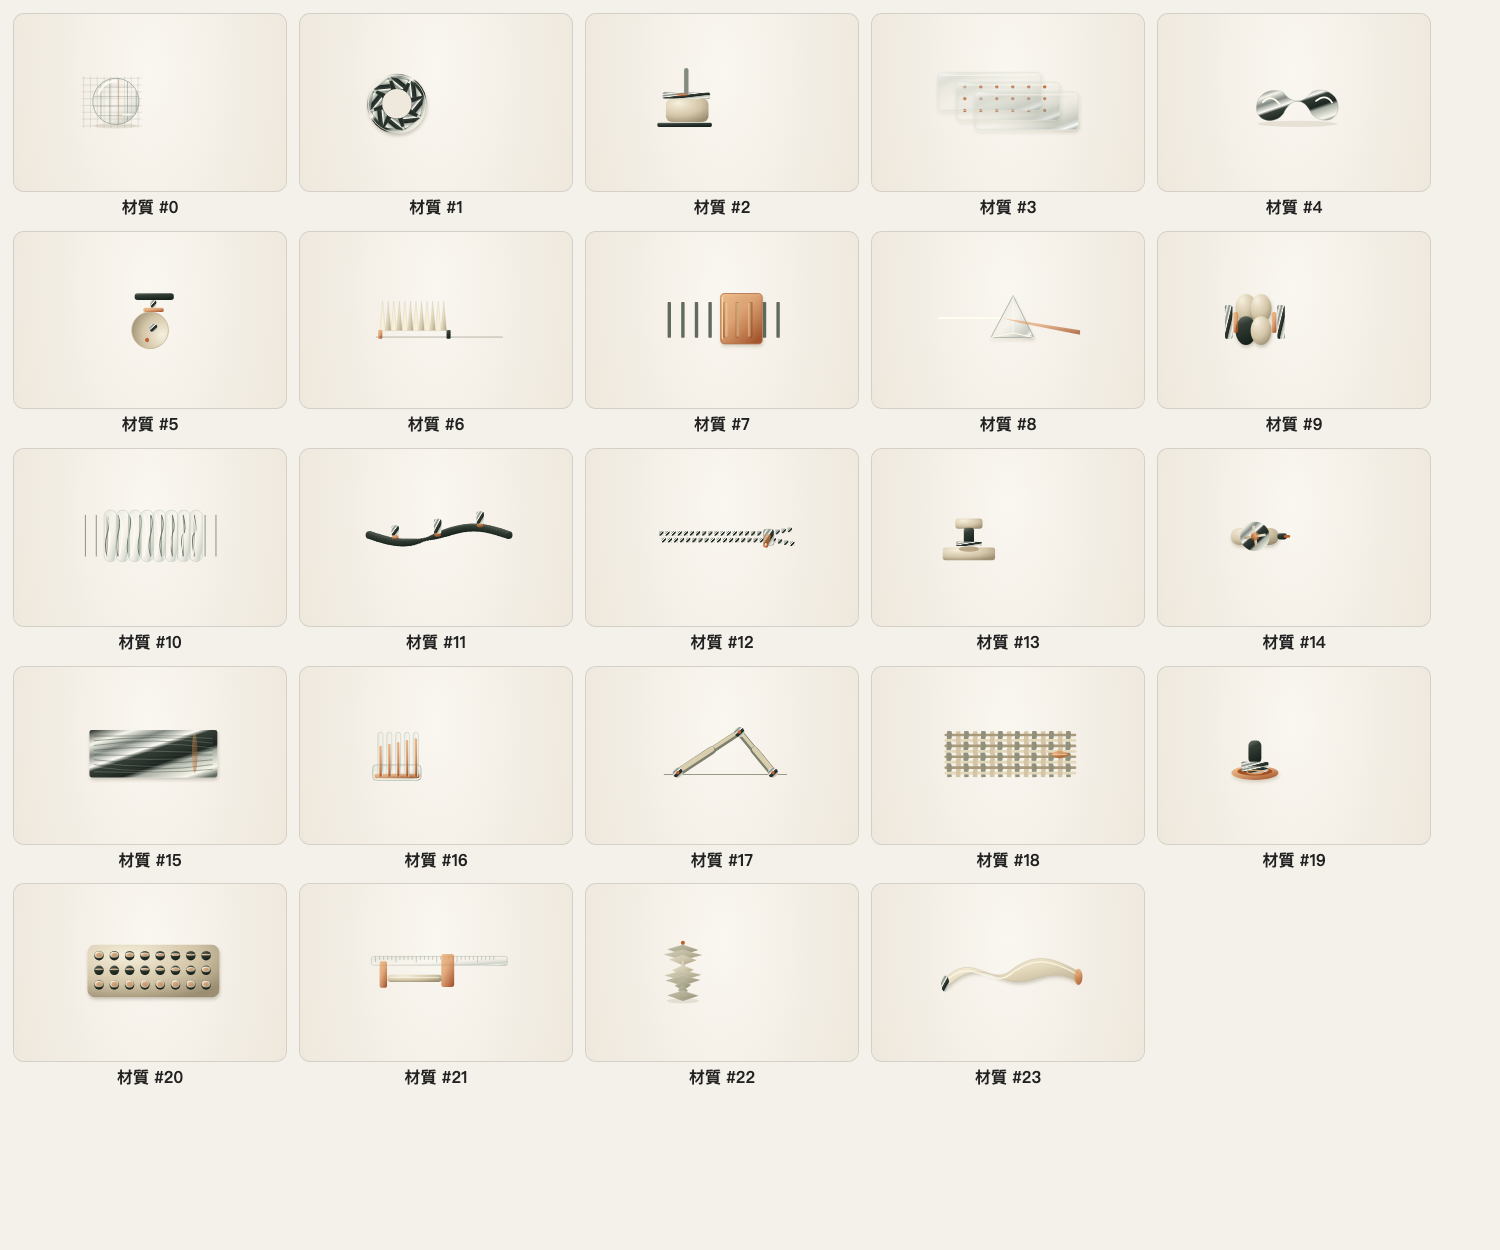
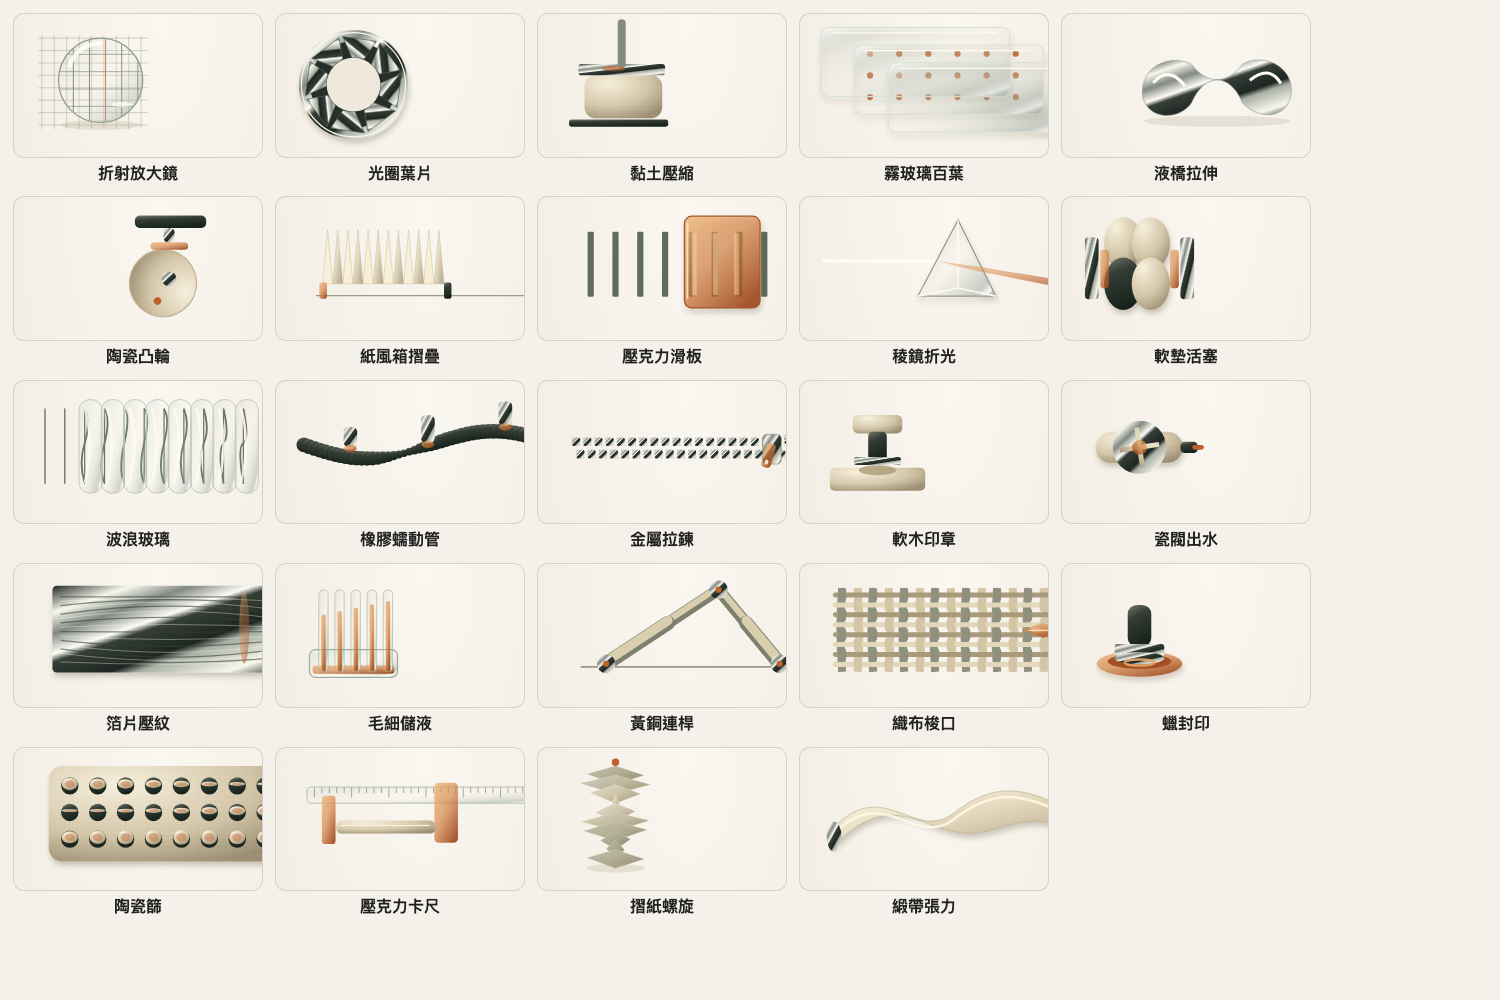
說明頁只放動態元件圖，其餘改文字；元件全部命名

diff --git a/sheet.html b/sheet.html
@@ -12,7 +12,7 @@ html,body{margin:0;background:#f4f1ea;font-family:-apple-system,"PingFang TC",sa
 .lab{font:600 16px/1.3 -apple-system,"PingFang TC";color:#222;margin-top:6px;text-align:center;max-width:300px}
 </style>
 <div id="g"></div>
-<script src="lib/widgets.js"></script><script src="lib/widgets2.js"></script><script src="lib/widgets3.js"></script><script src="lib/widgets4.js"></script><script src="lib/widgets-all.js"></script><script src="lib/motion.js"></script>
+<script src="lib/widgets.js"></script><script src="lib/widgets2.js"></script><script src="lib/widgets3.js"></script><script src="lib/widgets4.js"></script><script src="lib/widgets-all.js"></script><script src="lib/names.js"></script><script src="lib/motion.js"></script>
 <script>
 const q=new URLSearchParams(location.search),type=q.get('type'),from=+(q.get('from')||0),to=+(q.get('to')||999);
 const names={enter:ENTER.map(x=>x[0]),break:BREAK.map(x=>x[0]),arrange:ARR.map(x=>x[0]),camera:CAMS.map(x=>x[0]),transition:Object.keys(TRX)};
@@ -32,7 +32,7 @@ const add=(ty,i,t,label,sc,crop)=>{const it=document.createElement('div');it.cla
  const inn=document.createElement('div');inn.className='in';inn.style.transform=`scale(${sc}) translate(${crop?-crop.x:0}px,${crop?-crop.y:0}px)`;inn.innerHTML=render(ty,i,t);c.appendChild(inn);it.appendChild(c);
  const l=document.createElement('div');l.className='lab';l.textContent=label;it.appendChild(l);g.appendChild(it)};
 const TS=(q.get('ts')||'0.3').split(',').map(Number);
-if(type==='widget'){const n=WALL.length;for(let i=from;i<Math.min(to,n);i++)add('widget',i,1.2,'#'+i,.34,{x:140,y:640,w:800,h:520})}
-else if(type==='mat'){for(let i=from;i<Math.min(to,WALL4.length);i++)add('mat',i,1.2,'材質 #'+i,.34,{x:140,y:640,w:800,h:520})}
+if(type==='widget'){const n=WALL.length;for(let i=from;i<Math.min(to,n);i++)add('widget',i,1.2,WALL_NAMES[i],.34,{x:140,y:640,w:800,h:520})}
+else if(type==='mat'){for(let i=from;i<Math.min(to,WALL4.length);i++)add('mat',i,1.2,WALL4_NAMES[i],.62,{x:300,y:790,w:400,h:230})}
 else{const nm=names[type];for(let i=0;i<nm.length;i++){TS.forEach((t,j)=>add(type,i,t,j===0?`${i} ${nm[i]}`:'',.2,(type==='enter'||type==='break')?{x:0,y:520,w:1080,h:760}:null))}}
 </script>

diff --git a/lib/names.js b/lib/names.js
@@ -1,0 +1,3 @@
+// 動態元件（WALL，72 個）與材質元件（WALL4，24 個）的中文名稱，順序與編號一致
+window.WALL_NAMES=["閃電計數", "即時比分", "心率", "跳躍軌跡", "影片倒數", "訂單進度", "通話中", "電量百分比", "音樂播放", "跑步配速", "水滴數值", "爆發預測長條", "烤吐司計時", "呼吸引導", "錄影時間碼", "聊天輸入", "渲染進度環", "混音等化器", "互動曲線", "設定開關", "大數字統計", "時長膠囊", "處理中圓環", "已渲染幀數", "天氣", "股票 K 線", "地圖導航", "心電圖", "雷達掃描", "翻頁鐘", "行事曆", "通知堆疊", "支付卡", "相機取景框", "錄音波形", "日出曲線", "電量", "溫度計", "評分星", "下載進度", "Wi-Fi 訊號格", "指南針", "圓餅圖", "計步三環", "匯率", "外送進度", "碼表", "音量旋鈕", "音樂播放器", "聊天輸入中", "語音助理聲波球", "包裹地圖追蹤", "心率區間條", "睡眠階段圖", "雙線走勢比較", "加密貨幣跳動", "降雨雷達雨帶", "航班動態", "電梯樓層", "停車計時", "比賽計分板", "即時投票長條", "直播觀看數與愛心", "上傳進度圈", "雲端同步", "二步驗證碼", "鍵盤打字", "色彩滑桿", "顏色選擇器", "頻譜瀑布圖", "世界時鐘", "番茄鐘"];
+window.WALL4_NAMES=["折射放大鏡", "光圈葉片", "黏土壓縮", "霧玻璃百葉", "液橋拉伸", "陶瓷凸輪", "紙風箱摺疊", "壓克力滑板", "稜鏡折光", "軟墊活塞", "波浪玻璃", "橡膠蠕動管", "金屬拉鍊", "軟木印章", "瓷閥出水", "箔片壓紋", "毛細儲液", "黃銅連桿", "織布梭口", "蠟封印", "陶瓷篩", "壓克力卡尺", "摺紙螺旋", "緞帶張力"];

diff --git a/demo.html b/demo.html
@@ -7,7 +7,7 @@ html,body{margin:0;background:#0b0b0c}
 #st .wg>div:first-child{position:relative}
 </style>
 <div id="st"></div>
-<script src="lib/widgets.js"></script><script src="lib/widgets2.js"></script><script src="lib/widgets3.js"></script><script src="lib/widgets4.js"></script><script src="lib/widgets-all.js"></script>
+<script src="lib/widgets.js"></script><script src="lib/widgets2.js"></script><script src="lib/widgets3.js"></script><script src="lib/widgets4.js"></script><script src="lib/widgets-all.js"></script><script src="lib/names.js"></script>
 <script src="lib/motion.js"></script>
 <script>
 // URL 參數：?type=enter|break|arrange|camera|transition|widget&i=第幾個&t=秒&k=用哪個元件

diff --git a/catalog.md b/catalog.md
@@ -44,33 +44,102 @@
 - `7` iris
 - `8` rgb
 
-## 動態元件（type=widget，WALL 共 72 個，編號 0–71）
-- 0–23：基礎元件 24 個，由 pill, score, arc, steps, call, music, run, rain, timer, breathe, tc, chat, ring, eq, line, toggles, stat 等樣式組成（細節看 `lib/widgets.js` 結尾的 WALL 清單）
-- 24–47：天氣, 股票 K 線, 地圖導航, 心電圖, 雷達掃描, 翻頁鐘, 行事曆, 通知堆疊, 支付卡, 相機取景框, 錄音波形, 日出曲線, 電量, 溫度計, 評分星, 下載進度, Wi-Fi／訊號格, 指南針, 圓餅圖, 計步環三圈, 匯率, 外送進度, 碼表, 音量旋鈕
-- 48–71：音樂播放器, 聊天輸入中, 語音助理聲波球, 追蹤包裹地圖點, 健身心率區間條, 睡眠階段圖, 股票走勢雙線比較, 加密貨幣跳動, 天氣雷達雨帶, 航班動態, 電梯樓層, 停車計時, 比賽計分板倒數, 投票即時長條, 直播觀看數＋愛心飄, 上傳進度圈, 雲端同步轉圈, 二步驗證碼倒數, 鍵盤打字, 滑桿調整, 顏色選擇器色環, 頻譜瀑布圖, 世界時鐘三城, 番茄鐘
+## 動態元件（type=widget，共 72 個）
+- `0` 閃電計數
+- `1` 即時比分
+- `2` 心率
+- `3` 跳躍軌跡
+- `4` 影片倒數
+- `5` 訂單進度
+- `6` 通話中
+- `7` 電量百分比
+- `8` 音樂播放
+- `9` 跑步配速
+- `10` 水滴數值
+- `11` 爆發預測長條
+- `12` 烤吐司計時
+- `13` 呼吸引導
+- `14` 錄影時間碼
+- `15` 聊天輸入
+- `16` 渲染進度環
+- `17` 混音等化器
+- `18` 互動曲線
+- `19` 設定開關
+- `20` 大數字統計
+- `21` 時長膠囊
+- `22` 處理中圓環
+- `23` 已渲染幀數
+- `24` 天氣
+- `25` 股票 K 線
+- `26` 地圖導航
+- `27` 心電圖
+- `28` 雷達掃描
+- `29` 翻頁鐘
+- `30` 行事曆
+- `31` 通知堆疊
+- `32` 支付卡
+- `33` 相機取景框
+- `34` 錄音波形
+- `35` 日出曲線
+- `36` 電量
+- `37` 溫度計
+- `38` 評分星
+- `39` 下載進度
+- `40` Wi-Fi 訊號格
+- `41` 指南針
+- `42` 圓餅圖
+- `43` 計步三環
+- `44` 匯率
+- `45` 外送進度
+- `46` 碼表
+- `47` 音量旋鈕
+- `48` 音樂播放器
+- `49` 聊天輸入中
+- `50` 語音助理聲波球
+- `51` 包裹地圖追蹤
+- `52` 心率區間條
+- `53` 睡眠階段圖
+- `54` 雙線走勢比較
+- `55` 加密貨幣跳動
+- `56` 降雨雷達雨帶
+- `57` 航班動態
+- `58` 電梯樓層
+- `59` 停車計時
+- `60` 比賽計分板
+- `61` 即時投票長條
+- `62` 直播觀看數與愛心
+- `63` 上傳進度圈
+- `64` 雲端同步
+- `65` 二步驗證碼
+- `66` 鍵盤打字
+- `67` 色彩滑桿
+- `68` 顏色選擇器
+- `69` 頻譜瀑布圖
+- `70` 世界時鐘
+- `71` 番茄鐘
 
-## 材質元件（window.WALL4，24 個，編號 0–23）
-- `01` refraction: the target remains fixed; only magnified target moves inside lens.
-- `02` iris aperture, independently articulated leaves
-- `03` clay compresses under a real platen
-- `04` layered frosted shutters uncover a perforation matrix
-- `05` liquid bridge neck stretches, volume shifts between reservoirs
-- `06` ceramic eccentric cam lifts an orange follower
-- `07` paper bellows fold by facet, endpoints stay on rails
-- `08` acrylic panel moves across fixed bars, displacing image
-- `09` prism bends a single warm beam, no rainbow outside palette
-- `10` soft packing — pistons squeeze individual cushions
-- `11` corrugated glass changes stripe refraction per rib
-- `12` rubber peristaltic tube, traveling local compression
-- `13` metallic zipper meshes one tooth at a time
-- `14` cork stamp embosses a visible dent
-- `15` porcelain valve reveals outlet as wheel turns
-- `16` foil embossing propagates a raised crease
-- `17` capillary reservoir transfers liquid into glass fingers
-- `18` brass linkage has fixed pivots and an articulated knee
-- `19` textile weave opens a shed; one weft passes through
-- `20` wax seal: pressing changes local meniscus
-- `21` ceramic sieve — aperture tiles tilt independently
-- `22` acrylic caliper, measuring jaws physically approach sample
-- `23` folded paper screw — each facet folds around an axis
-- `24` satin ribbon tension: changing curve, fixed anchored ends
+## 材質元件（type=mat，共 24 個，window.WALL4）
+- `0` 折射放大鏡
+- `1` 光圈葉片
+- `2` 黏土壓縮
+- `3` 霧玻璃百葉
+- `4` 液橋拉伸
+- `5` 陶瓷凸輪
+- `6` 紙風箱摺疊
+- `7` 壓克力滑板
+- `8` 稜鏡折光
+- `9` 軟墊活塞
+- `10` 波浪玻璃
+- `11` 橡膠蠕動管
+- `12` 金屬拉鍊
+- `13` 軟木印章
+- `14` 瓷閥出水
+- `15` 箔片壓紋
+- `16` 毛細儲液
+- `17` 黃銅連桿
+- `18` 織布梭口
+- `19` 蠟封印
+- `20` 陶瓷篩
+- `21` 壓克力卡尺
+- `22` 摺紙螺旋
+- `23` 緞帶張力

diff --git a/README.md b/README.md
@@ -11,52 +11,45 @@
 2. 用瀏覽器直接開檔案預覽，不需要安裝任何東西：
    - `demo.html?type=break&i=1&t=0.3` → 方塊爆破的某一瞬間
    - `demo.html?type=widget&i=30&t=1` → 第 30 號動態元件在第 1 秒
-3. 想看整類招式的總覽圖：`sheet.html?type=enter&ts=0.1,0.25`
+3. 想看整類招式的總覽圖：`sheet.html?type=break&ts=0.1,0.25`（元件用 `type=widget`）
 
 ---
 
 ## 一、進場（8 種）
-元件怎麼「出現」：彈出、翻牌、落下、旋轉縮放、對焦、擦除、圓形遮罩、殘影。每招約 0.38 秒走完，每格圖是同一招的兩個時間點。
-
-![進場](docs/img/enter.png)
-
+元件怎麼「出現」。每招約 0.38 秒走完。
+3D 彈出、翻牌進場、彈跳落下、旋轉縮放、對焦浮現、擦除揭露、圓形遮罩、殘影滑入。
 呼叫：`demo.html?type=enter&i=<編號>&t=<秒>&k=<用哪個元件>`
 
 ## 二、破壞特效（8 種）
-元件怎麼「被拆掉」：玻璃碎裂、方塊爆破、像素崩壞、時間切片、撕開畫面、扯畫面、RGB 色散、粒子溶解。
-
-![破壞](docs/img/break.png)
-
+元件怎麼「被拆掉」。
+玻璃碎裂、方塊爆破、像素崩壞、時間切片、撕開畫面、扯畫面、RGB 色散、粒子溶解。
 呼叫：`demo.html?type=break&i=<編號>&t=<秒>&k=<元件>`
 
 ## 三、排列（3 種）
 多個元件怎麼「站位」：堆疊展開、卡片洗牌、元件轉盤。
-
-![排列](docs/img/arrange.png)
+呼叫：`demo.html?type=arrange&i=<編號>&t=<秒>`
 
 ## 四、鏡頭運動（4 種）
 整個畫面怎麼「動」：拉焦、荷蘭角推近、無限套娃、俯拍旋轉。
-
-![鏡頭](docs/img/camera.png)
+呼叫：`demo.html?type=camera&i=<編號>&t=<秒>`
 
 ## 五、轉場（9 種）
-兩個畫面怎麼「切換」：ink、blinds、vblinds、whip、punch、glitch、flash、iris、rgb。每格是同一個轉場進度 25%、50%、75%。
-
-![轉場](docs/img/transition.png)
-
+兩個畫面怎麼「切換」：ink（墨水擴散）、blinds（橫百葉）、vblinds（直百葉）、whip（甩鏡）、punch（衝擊放大）、glitch（故障位移）、flash（閃白）、iris（圓形擴張）、rgb（色散切換）。
 呼叫：`demo.html?type=transition&i=<編號>&t=<0 到 1 的進度>`
+
+> 編號對照在 [catalog.md](catalog.md)。
 
 ## 六、動態元件（72 個）＋材質元件（24 個）
 可以單獨用，也是上面所有招式作用的對象。
 
-**#0–23 基礎元件**
-![元件 0-23](docs/img/widget-a.png)
+**基礎元件（24）**
+![基礎元件](docs/img/widget-a.png)
 
-**#24–47 生活與工具類**
-![元件 24-47](docs/img/widget-b.png)
+**生活與工具類（24）**
+![生活與工具類](docs/img/widget-b.png)
 
-**#48–71 進階類**
-![元件 48-71](docs/img/widget-c.png)
+**進階類（24）**
+![進階類](docs/img/widget-c.png)
 
 **材質元件 0–23**（物理機械感：光圈、夾具、拉鍊、稜鏡等）
 ![材質元件](docs/img/material.png)
